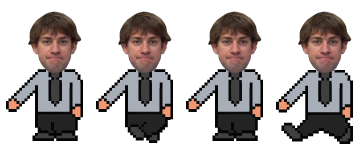
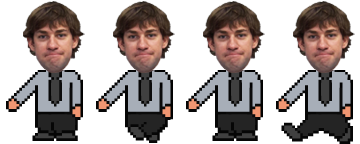
Replacing images

diff --git a/sketch.js b/sketch.js
@@ -32,6 +32,7 @@ function preload() {
   imgEnemyJim = loadImage('images/enemies/jim.png');
   imgEnemyAndy = loadImage('images/enemies/andy.png');
   imgEnemyCreed = loadImage('images/enemies/creed.png');
+  imgEnemyFlyingCreed = loadImage('images/enemies/flying_creed.png');
   imgFirstAid = loadImage('images/assets/first-aid.png');
   imgFirstAidResponder = loadImage('images/assets/first-aid-responder.png');
   imgPretzel = loadImage('images/assets/pretzel.gif');
@@ -235,7 +236,7 @@ function createEnemies() {
   
   const enemyJim = new Enemy(dwightPositionMatrix, imgEnemyJim, width, 0, dwightWidth, dwightHeight, dwightWidth, dwightHeight, 8, 300);
   const enemyAndy = new Enemy(michaelPositionMatrix, imgEnemyAndy, width * 1.5, 5, michaelWidth, michaelHeight, michaelWidth, michaelHeight, 12, 100);
-  const enemyCreed = new Enemy(flyingMichaelPositionMatrix, imgEnemyCreed, width * 1.8, 200, flyingMichaelWidth/1.5, flyingMichaelHeight/1.5, flyingMichaelWidth, michaelHeight, 15, 50);
+  const enemyFlyingCreed = new Enemy(flyingMichaelPositionMatrix, imgEnemyFlyingCreed, width * 1.8, 200, flyingMichaelWidth/1.5, flyingMichaelHeight/1.5, flyingMichaelWidth, michaelHeight, 15, 50);
 
   enemies.push(enemyDwight);
   enemies.push(enemyMichael);
@@ -243,7 +244,7 @@ function createEnemies() {
   
   enemies.push(enemyJim);
   enemies.push(enemyAndy);
-  enemies.push(enemyCreed);
+  enemies.push(enemyFlyingCreed);
 }
 
 function draw() {
